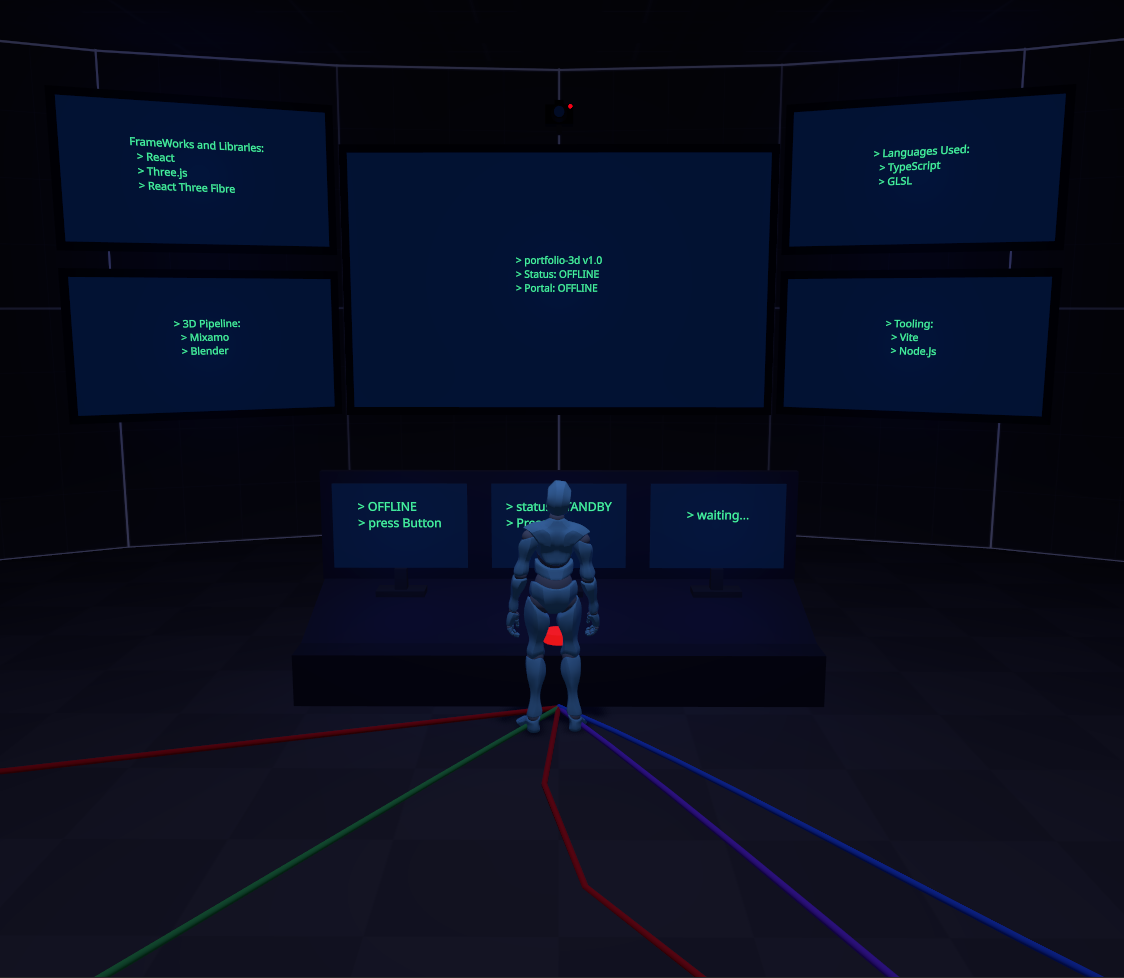
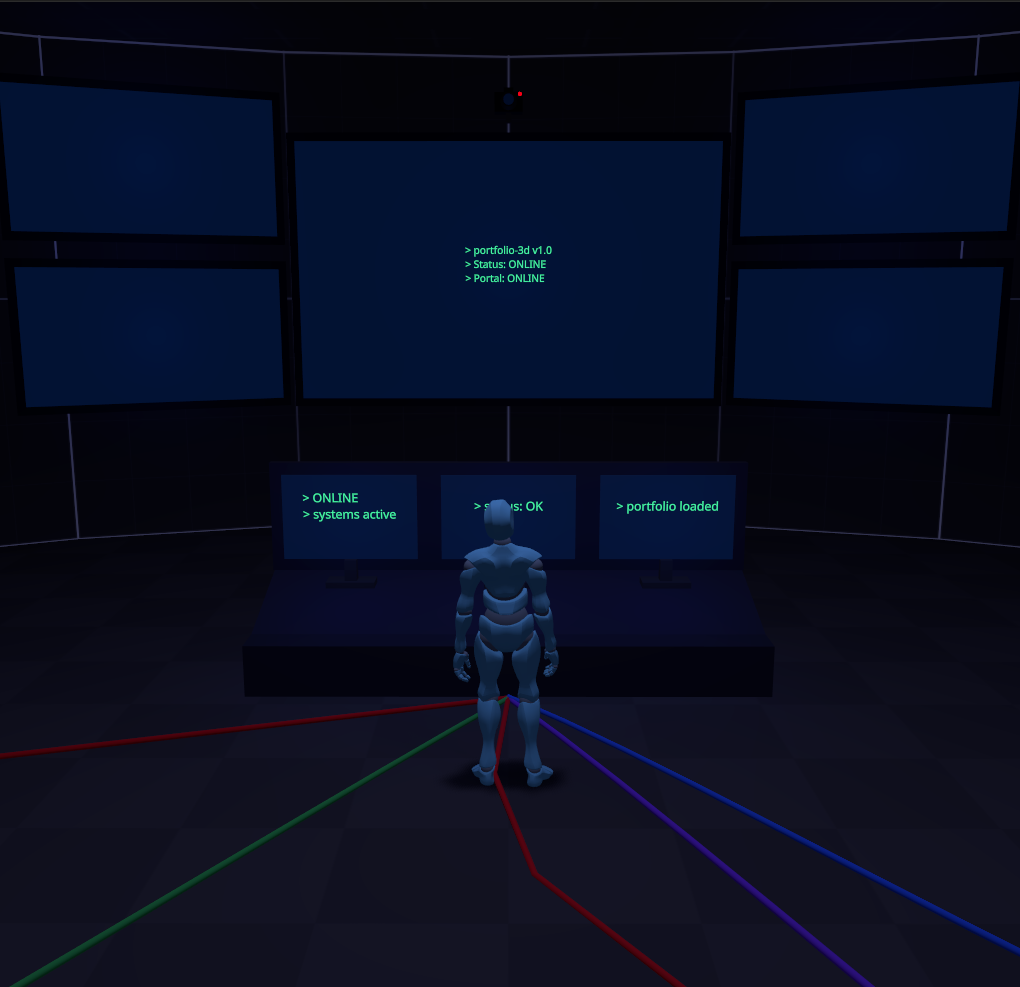
Modified Portals and FollowCamera

diff --git a/src/utils/models/HubAndHallModels.tsx b/src/utils/models/HubAndHallModels.tsx
@@ -94,6 +94,19 @@ export function Wire({ points, color = '#111111' }: {
   )
 }
 
+function ScreenDisplay({ imagePath }: { imagePath?: string }) {
+  const texture = useTexture(imagePath!)
+  return (
+    <meshStandardMaterial
+      color="#000011"
+      map={texture}
+      emissive="#ffffff"
+      emissiveMap={texture}
+      emissiveIntensity={1}
+    />
+  )
+}
+
 export function Screen({ position, rotation,width = 1.1,height = 0.7,content,imagePath,wallMounted = false }: {
   position: [number, number, number]
   rotation?: [number, number, number]
@@ -103,9 +116,6 @@ export function Screen({ position, rotation,width = 1.1,height = 0.7,content,ima
   imagePath?: string
   wallMounted?: boolean
 }) {
-  const texture = useTexture(imagePath ?? `${import.meta.env.BASE_URL}Textures/Kenney/Dark/texture_01.png`)
-  const activeTexture = imagePath ? texture : null
-
   return (
     <group position={position} rotation={rotation}>
       <RigidBody type="fixed" colliders="hull">
@@ -116,14 +126,14 @@ export function Screen({ position, rotation,width = 1.1,height = 0.7,content,ima
 
       <mesh position={[0, 0, -0.02]}>
         <boxGeometry args={[width, height, 0.05]} />
-        <meshStandardMaterial
-          color="#000011"
-          map={activeTexture ?? undefined}
-          emissive={activeTexture ? '#ffffff' : '#001133'}
-          emissiveIntensity={activeTexture ? 0.1 : 1}
-        >
-          
-        </meshStandardMaterial>
+        {imagePath
+          ? <ScreenDisplay imagePath={imagePath} />
+          : <meshStandardMaterial 
+            color="#000011" 
+            emissive="#0033aa" 
+            emissiveIntensity={1} 
+          />
+        }
       </mesh>
       </RigidBody>
       <pointLight position={[0, 0, 0.5]} intensity={0.5} distance={3} color="#0044ff" />

diff --git a/src/components/FollowCamera.tsx b/src/components/FollowCamera.tsx
@@ -1,11 +1,13 @@
 import { useFrame, useThree } from '@react-three/fiber'
+import { useRapier } from '@react-three/rapier'
 import * as THREE from 'three'
 
 export function FollowCamera({ target }: { 
   target: React.RefObject<THREE.Group | null> 
 }) {
   const { camera } = useThree()
-  
+  const { world, rapier } = useRapier()
+
    useFrame(() => {
     if (!target.current) return
 
@@ -16,15 +18,32 @@ export function FollowCamera({ target }: {
     const backward = new THREE.Vector3(0, 0, -1)
     backward.applyEuler(targetRot)
 
-    // desired camera position — behind and above player
     const desired = new THREE.Vector3(
       targetPos.x + backward.x * 6,
       targetPos.y + 2,
       targetPos.z + backward.z * 6
     )
 
+    // ray origin: player's head/shoulder height
+    const origin = new THREE.Vector3(targetPos.x, targetPos.y + 1.5, targetPos.z)
+    const dir = desired.clone().sub(origin)
+    const maxDistance = dir.length()
+    dir.normalize()
+
+    const ray = new rapier.Ray(origin, dir)
+    const hit = world.castRay(ray, maxDistance, true)
+
+    let finalPos: THREE.Vector3
+    if (hit) {
+      // pull the camera slightly in front of the wall to avoid clipping
+      const hitDist = Math.max(hit.timeOfImpact - 0.3, 0.5)
+      finalPos = origin.clone().addScaledVector(dir, hitDist)
+    } else {
+      finalPos = desired
+    }
+
     // lerp camera to desired
-    camera.position.lerp(desired, 0.08)
+    camera.position.lerp(finalPos, 0.08)
 
     // look slightly above player center
     const lookAt = new THREE.Vector3(targetPos.x, targetPos.y + 1, targetPos.z)

diff --git a/src/scenes/HubWorld.tsx b/src/scenes/HubWorld.tsx
@@ -12,6 +12,9 @@ export default function HubRoom({ playerBody }: {
   playerBody: React.RefObject<RapierRigidBody | null> 
 }) {
   const base = import.meta.env.BASE_URL
+  const portfolioPortal = `${base}images/portfolio.png`
+  const loreDumpCam = `${base}images/loreDumpCam.png`
+  const hubRoomCam = `${base}images/hubRoomCam.png`
 
   const [online, setOnline] = useState(false)
   const handleInteract = useCallback(() => setOnline(o => !o), [])
@@ -110,12 +113,14 @@ export default function HubRoom({ playerBody }: {
         position={[0, 3.25, -13]}
         rotation={[0, 0, 0]}
         width={5} height={3} wallMounted
+        imagePath={online ? hubRoomCam : undefined}
         content={online ? '> portfolio-3d v1.0\n> Status: ONLINE\n> Portal: ONLINE' : '> portfolio-3d v1.0\n> Status: OFFLINE\n> Portal: OFFLINE'}
       />
       <Screen 
         position={[4.25, 4.5, -13]} 
         rotation={[0, -.4, 0]}
         width={3} height={1.6} wallMounted
+        imagePath={online ? loreDumpCam : undefined}
         content={online ? '' : '> Languages Used:\n\t> TypeScript\n\t> GLSL'}
       />
       <Screen 
@@ -181,7 +186,7 @@ export default function HubRoom({ playerBody }: {
         content={'> Assets:\n> Kenney.nl - Prototype Textures\n> viravoloshyn.itch.io - Museum Models\n> Mixamo - Y-bot and Animations\n> Kevin MacLeod - Perspectives Music'}
       />
 
-      <Portal position={[-5.25, 1.75, 12.5]} rotation={[0, Math.PI * 0.9, 0]}  destination="https://dtcoops.github.io/portfolio/" external/>
+      <Portal position={[-5.25, 1.75, 12.5]} rotation={[0, Math.PI * 0.9, 0]}  imagePath={portfolioPortal} destination="https://dtcoops.github.io/portfolio/" external/>
     </>
   )
 }
@@ -227,7 +232,9 @@ function ControlsSign({ position, rotation, online }: {
         <Portal 
           position={position} 
           rotation={rotation} 
-          destination="/about" 
+          destination="/about"
+          frameSize={[2, 2, 1]}
+          pictureScale={[3, 4.5]} 
           imagePath={exitPortal}
         />
       )}

diff --git a/src/scenes/Gallery.tsx b/src/scenes/Gallery.tsx
@@ -41,8 +41,8 @@ export default function Gallery() {
             <GalleryWorld playerBody={playerBody}/>
             <CharacterController bodyRef={playerBody} visualGroupRef={visualGroupRef} spawnPosition={[0, 1, 0]} movementMode="follow" />
             <ReadySignal onReady={() => setPhysicsPaused(false)} />
+            <FollowCamera target={visualGroupRef} />
           </Physics>
-          <FollowCamera target={visualGroupRef} />
           <ambientLight intensity={0.7} />
         </Suspense>
       </Canvas>

diff --git a/src/utils/models/Picture.tsx b/src/utils/models/Picture.tsx
@@ -83,7 +83,7 @@ export function Picture({
       {/* Rapier sensor — triggers navigation when character enters */}
       {portal && (
         <RigidBody type="fixed" sensor onIntersectionEnter={onEnter ?? (() => {})}>
-          <CuboidCollider args={frameSize ? [1,1, 0.05] : [0.8, 1.15, 0.05]} position={position ?? [0, 0, 0.01]} scale={frameSize}/>
+          <CuboidCollider args={frameSize ? [1,1, 0.05] : [0.8, 1.15, 0.05]} position={position ?? [0, 0, 0.01]} />
         </RigidBody>
       )}
 